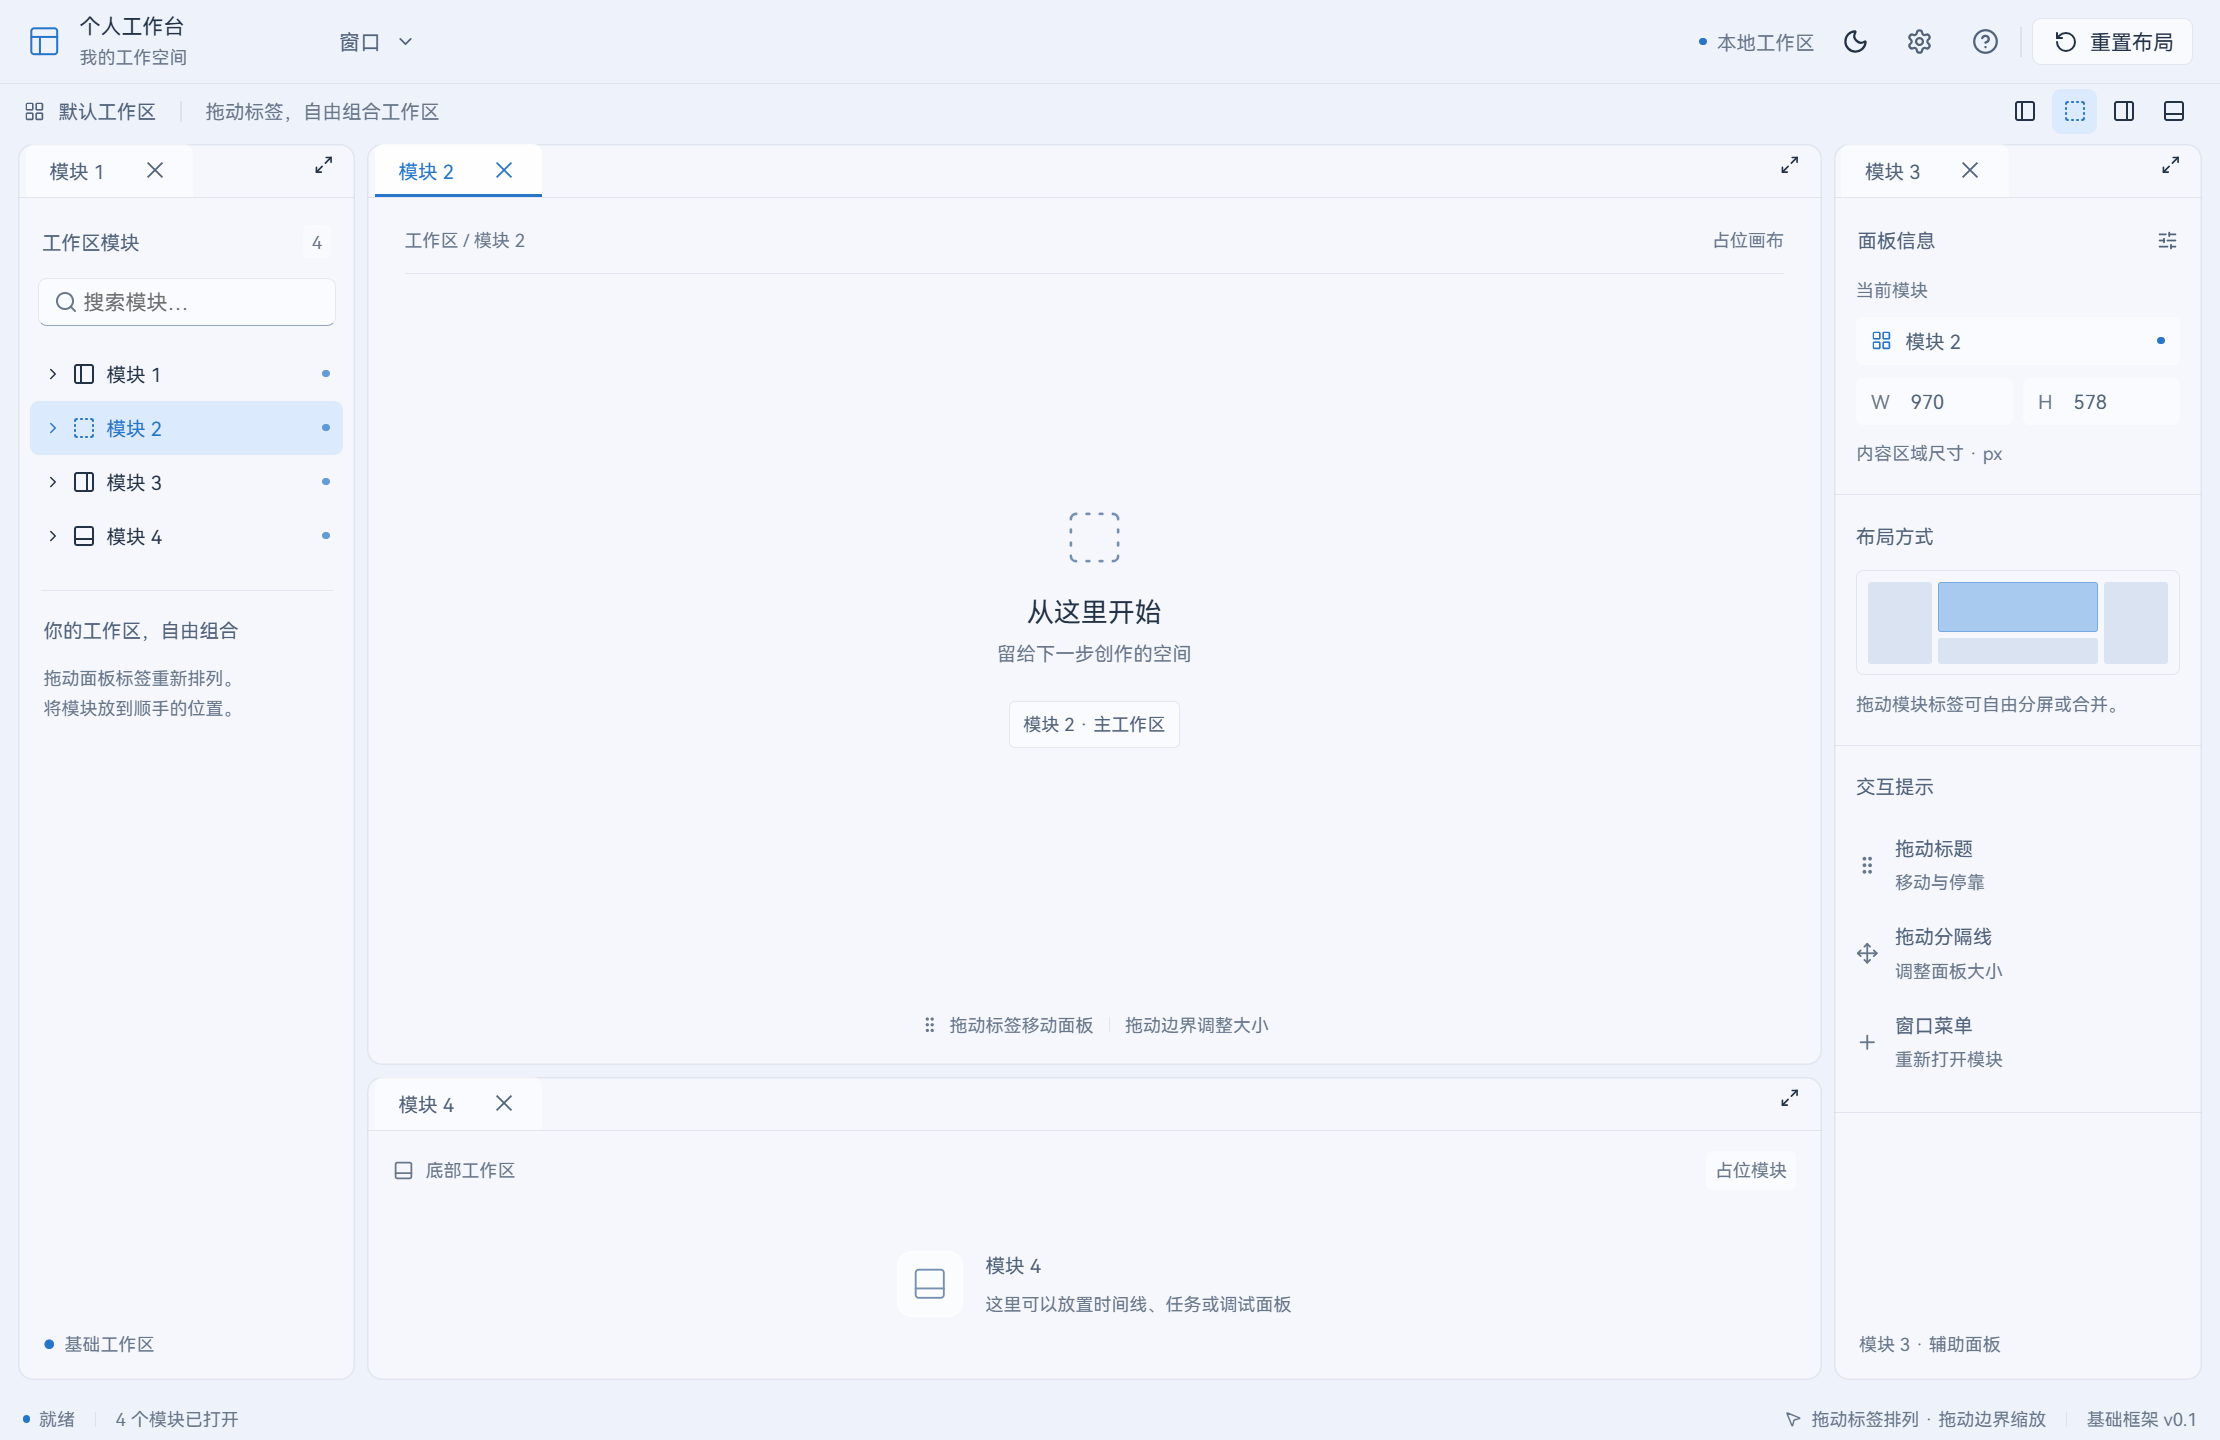
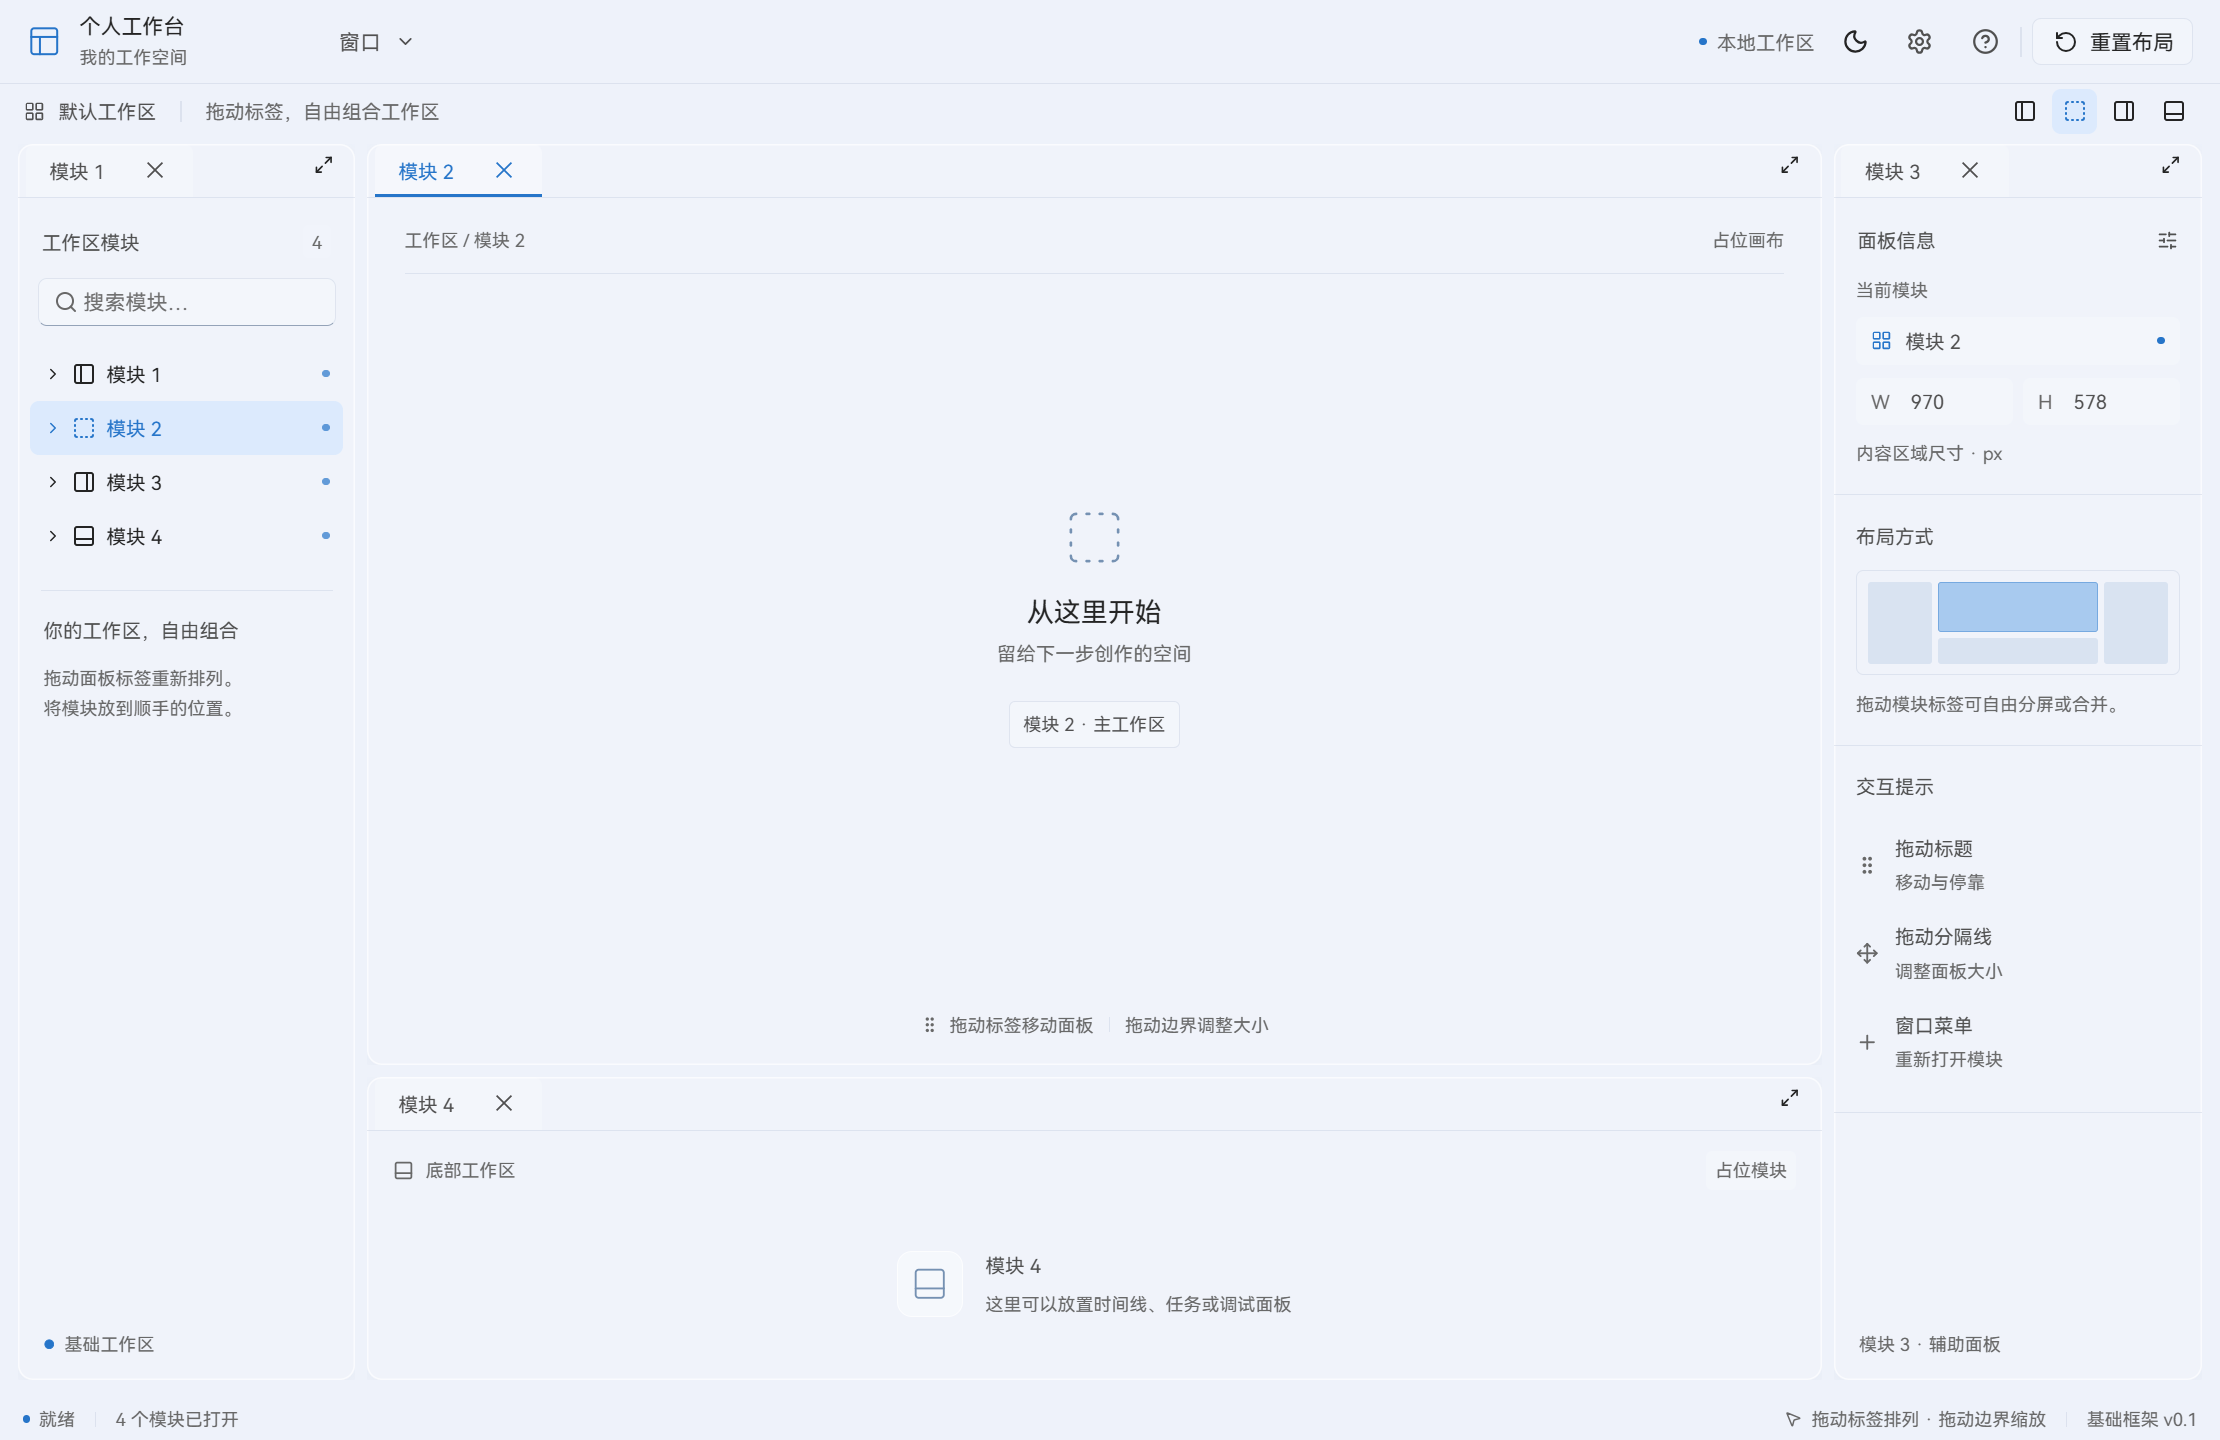
fix: 统一 Fluent 玻璃材质与设置卡片

diff --git a/src/renderer/src/app/AppearanceSettings.tsx b/src/renderer/src/app/AppearanceSettings.tsx
@@ -46,17 +46,21 @@ export function AppearanceSettings({ value, theme, onChange, onTheme, saved }: P
           </DialogTitle>
           <DialogContent>
             <div className="settings-intro">
-              <span>外观</span>
-              <p>让工作台适合你的习惯。修改即时生效。</p>
+              <span>个性化</span>
+              <p>外观随你而定。修改即时生效，关闭窗口后仍会保留。</p>
             </div>
             <div className="settings-grid">
-              <Field label="颜色主题">
+              <Field label="颜色主题" hint="为整个工作台选择深色或浅色。" orientation="horizontal">
                 <Select value={theme} onChange={(_, data) => onTheme(data.value as Theme)}>
                   <option value="dark">深色</option>
                   <option value="light">浅色</option>
                 </Select>
               </Field>
-              <Field label="界面材质">
+              <Field
+                label="界面材质"
+                hint="调整玻璃透光程度，或使用实色底。"
+                orientation="horizontal"
+              >
                 <Select
                   value={value.material}
                   onChange={(_, data) =>
@@ -68,7 +72,11 @@ export function AppearanceSettings({ value, theme, onChange, onTheme, saved }: P
                   <option value="solid">纯色 · 更高可读性</option>
                 </Select>
               </Field>
-              <Field label="界面密度">
+              <Field
+                label="界面密度"
+                hint="调整工具栏、标签和列表的间距。"
+                orientation="horizontal"
+              >
                 <Select
                   value={value.density}
                   onChange={(_, data) =>
@@ -79,7 +87,7 @@ export function AppearanceSettings({ value, theme, onChange, onTheme, saved }: P
                   <option value="compact">紧凑</option>
                 </Select>
               </Field>
-              <Field label="强调色">
+              <Field label="强调色" hint="用于选中状态、焦点和主要操作。" orientation="horizontal">
                 <Select
                   value={value.accent}
                   onChange={(_, data) =>
@@ -91,7 +99,7 @@ export function AppearanceSettings({ value, theme, onChange, onTheme, saved }: P
                   <option value="violet">柔紫</option>
                 </Select>
               </Field>
-              <Field label="面板边角">
+              <Field label="面板边角" hint="统一停靠面板与标签的轮廓。" orientation="horizontal">
                 <Select
                   value={value.corners}
                   onChange={(_, data) =>
@@ -105,7 +113,7 @@ export function AppearanceSettings({ value, theme, onChange, onTheme, saved }: P
               <div className="settings-font">
                 <span>中文字体</span>
                 <p>HarmonyOS Sans SC</p>
-                <small>未安装时回退到微软雅黑，不更改系统字体。</small>
+                <small>本机字体 · 未安装时回退微软雅黑 UI</small>
               </div>
             </div>
             <p className="settings-note">

diff --git a/src/renderer/src/styles/appearance.css b/src/renderer/src/styles/appearance.css
@@ -91,7 +91,7 @@
   border-top: 0;
 }
 .appearance-dialog.fui-DialogSurface {
-  width: min(620px, calc(100vw - 32px));
+  width: min(720px, calc(100vw - 32px));
 }
 .settings-intro {
   margin-top: var(--space-12);
@@ -107,27 +107,52 @@
   font-size: var(--font-size-control);
   line-height: var(--line-height-hint);
 }
+/* WinUI Gallery SettingsCard layout, implemented with Fluent React Field. */
 .settings-grid {
-  align-items: start;
   display: grid;
-  grid-template-columns: 1fr 1fr;
-  gap: var(--space-20) var(--space-24);
-  padding: var(--space-20) 0;
-  border-top: 1px solid var(--stroke);
-  border-bottom: 1px solid var(--stroke);
+  gap: var(--space-4);
+  padding: var(--space-12) 0;
+}
+.settings-grid > .fui-Field,
+.settings-font {
+  padding: var(--space-16);
+  border: 1px solid var(--stroke);
+  border-radius: var(--radius-6);
+  background: var(--glass);
+  box-shadow: inset 0 1px var(--edge-highlight);
+}
+.settings-grid > .fui-Field {
+  grid-template-columns: minmax(0, 1fr) 176px;
+  column-gap: var(--space-16);
+}
+.settings-grid .fui-Field__label {
+  grid-column: 1;
+  grid-row: 1;
+}
+.settings-grid .fui-Field__hint {
+  grid-column: 1;
+  grid-row: 2;
+  color: var(--text-muted);
 }
 .settings-grid .fui-Select {
+  grid-column: 2;
+  grid-row: 1 / span 2;
+  align-self: center;
   min-width: 0;
   width: 100%;
 }
 .settings-font {
+  display: grid;
+  grid-template-columns: 1fr auto;
+  gap: var(--space-4);
   font-size: var(--font-size-body);
 }
 .settings-font p {
-  margin: var(--space-8) 0;
+  margin: 0;
   font-size: var(--font-size-control);
 }
 .settings-font small {
+  grid-column: 1 / -1;
   color: var(--text-muted);
   font-size: var(--font-size-caption);
 }
@@ -149,4 +174,28 @@
 :root[data-material="solid"] .workbench-menu.fui-MenuPopover {
   background: var(--solid-surface);
   backdrop-filter: none;
+}
+
+/* Keep one scrolling content region; title and actions remain reachable. */
+.appearance-dialog.fui-DialogSurface {
+  overflow: hidden;
+}
+.appearance-dialog .fui-DialogBody {
+  display: grid;
+  grid-template-rows: auto minmax(0, 1fr) auto;
+  max-height: calc(100vh - 80px);
+  min-height: 0;
+  gap: var(--space-16);
+}
+.appearance-dialog .fui-DialogContent {
+  min-height: 0;
+  overflow-y: auto;
+}
+.appearance-dialog .fui-DialogTitle,
+.appearance-dialog .fui-DialogActions {
+  flex-shrink: 0;
+}
+* {
+  scrollbar-width: thin;
+  scrollbar-color: var(--stroke-strong) transparent;
 }

diff --git a/src/renderer/src/styles/tokens.css b/src/renderer/src/styles/tokens.css
@@ -23,7 +23,7 @@
   --base: #202227;
   --backdrop: #171a20ad;
   --solid-surface: #282c34;
-  --menu-surface: #252a33ed;
+  --menu-surface: #252525b8;
   --glass: #ffffff08;
   --control: #ffffff0c;
   --hover: #ffffff12;
@@ -34,9 +34,9 @@
 }
 :root[data-theme="light"] {
   color-scheme: light;
-  --text: #243247;
-  --text-secondary: #51627b;
-  --text-muted: #69778b;
+  --text: #242424;
+  --text-secondary: #505050;
+  --text-muted: #686868;
   --accent: #2675c9;
   --accent-hover: #1e65b5;
   --accent-soft: #dceafd;
@@ -56,12 +56,12 @@
   --base: #eef2fa;
   --backdrop: #edf3fa9c;
   --solid-surface: #f8fafe;
-  --menu-surface: #f7faffd9;
-  --glass: #ffffff66;
-  --control: #ffffff80;
-  --hover: #ffffff99;
+  --menu-surface: #fafafab8;
+  --glass: #ffffff18;
+  --control: #ffffff38;
+  --hover: #ffffff60;
   --edge-highlight: #ffffffb3;
-  --tab-active: #ffffffd9;
+  --tab-active: #ffffff55;
   --highlight: #ffffff;
   --on-accent: #ffffff;
 }
@@ -124,7 +124,7 @@
 :root {
   --shell-surface: transparent;
   --panel-surface: var(--glass);
-  --panel-shadow: inset 0 0 0 1px var(--stroke);
+  --panel-shadow: var(--shadow-panel);
   --panel-filter: none;
   --shell-header-height: 56px;
   --shell-toolbar-height: 36px;

diff --git a/src/renderer/src/app/fluentTheme.ts b/src/renderer/src/app/fluentTheme.ts
@@ -26,7 +26,15 @@ export function fluentTheme(mode: ColorTheme): Theme {
     colorNeutralForeground2Hover: 'var(--text)',
     colorNeutralForeground2Pressed: 'var(--text)',
     colorNeutralForeground2BrandHover: 'var(--accent)',
-    colorNeutralBackground1: 'var(--solid-surface)',
+    colorNeutralBackground1: 'var(--control)',
+    colorNeutralBackground2: 'var(--glass)',
+    colorNeutralBackground3: 'var(--control)',
+    colorNeutralBackground4: 'var(--glass)',
+    colorNeutralBackground5: 'var(--glass)',
+    colorNeutralBackground6: 'var(--glass)',
+    colorNeutralBackgroundAlpha: 'var(--control)',
+    colorNeutralBackgroundAlpha2: 'var(--glass)',
+    colorNeutralStencil1: 'var(--control)',
     colorNeutralBackground1Hover: 'var(--hover)',
     colorNeutralBackground1Pressed: 'var(--control)',
     colorNeutralBackground1Selected: 'var(--accent-soft)',

diff --git a/docs/任务记录.md b/docs/任务记录.md
@@ -125,10 +125,13 @@
 - 目标：修正工作台、控件、菜单与设置材质不一致，按 WinUI Gallery 设置卡片组织现有功能。
 - 范围：语义材质 tokens、Fluent 适配及现有设置；不新增业务、不修改存储格式或用户 profile。
 - 验收：项目检查、后台深浅色/小窗口截图、透明链路、已有设置与布局重启测试；交付重建桌面入口使用的 out。
-- 状态：进行中。
+- 状态：实现完成，外观等待用户查看；统一 Fluent 控件与面板/菜单/弹窗材质，设置改为 WinUI Gallery 式卡片，小窗口固定标题与底部操作。
+- 验证：最终 npm run check 通过（2 项 doctor、生产/开发各 15 项交互）；独立 profile 覆盖主题/外观及布局重启保持。中途有开发测试超时，最终串行重跑通过，未放宽测试阈值。后台透明链路与深浅色/大小窗口截图检查通过；原型共享样式回归通过（证据 tmp/component-prototype-myqYSl）。
+- 交付：out 已更新，桌面入口 --check 成功；未读取或清理 local/desktop-profile，未改变存储键。截图为真实 Electron 的不透明底色回退，不能证明 Windows 原生 Acrylic 合成；未 push，远程 CI 未运行。
+- 提交主题：fix: 统一 Fluent 玻璃材质与设置卡片。
 
 ## L02 桌面预览持续交付约定
 
 - 目标/范围：将更新 out 构建、检查桌面入口、保留固定 profile 写入协作与开发流程；不清理用户数据、不改存储来源。
 - 验收/状态：完成。桌面脚本 --check 成功；核对固定 local/desktop-profile；文档 diff --check 通过。实际构建与重启持久化由 U02 的项目检查覆盖。
-- 关联提交主题：docs: 固定桌面预览更新与配置保留流程。
+- 关联提交：b0c3d64。

diff --git a/docs/设计规范.md b/docs/设计规范.md
@@ -61,3 +61,5 @@ Windows 11 build 22621+ 使用原生 Acrylic；旧系统和浏览器背景使用
 外观存于当前 profile/origin 的 localStorage `workbench.appearance`（version 1）；主题沿用 `workbench.theme`。无效 JSON、未知版本安全回退；单字段无效则恢复该项默认。恢复默认外观不会修改布局或个人数据。无法保存时界面显示说明。无数据库、云同步和第三方组件配置。
 
 `node scripts/preview-appearance.mjs` 在独立 profile 后台生成深浅色、1480×960/960×720 的工作台/设置截图，截图明确使用不透明底色回退以检查排版，不伪装成桌面 Acrylic 合成。`scripts/visual-check.mjs` 继续进行 125%/150% Chromium 缩放模拟；它不更改或代表真实 Windows 系统缩放。
+
+材质统一：默认玻璃使用透明外壳、轻量半透明面板与控件，以及较浓的磨砂菜单/对话框；避免 Fluent 默认实色底遮挡原生 Acrylic。浅色减少白色叠层，正文用中性黑灰。系统标题栏与内容区依赖同一原生背景，但弹窗因阅读和遮挡关系保留较高浓度，不承诺所有表面完全相同的透明度。纯色、减少透明及高对比回退继续保留。设置页参考 WinUI Gallery 的设置卡片；小窗口只滚动设置内容，标题和操作固定。

diff --git a/docs/第三方来源.md b/docs/第三方来源.md
@@ -40,3 +40,7 @@ Dockview 社区基础包及 dockview-core 8.9.0 均为 MIT，未使用 Enterpris
 - 不随包分发本机 HarmonyOS/微软字体；安装机器使用其已有字体回退。
 
 示例组件同样复用已列出的 React、Fluent UI React 与 lucide-react，独立 bundle 随示例分发；不是新增框架或第三方许可证。正式组件分发时仍需一并提供对应许可证与依赖 notices。
+
+## 设置页参考
+
+- [微软 WinUI Gallery SettingsPage](https://github.com/microsoft/WinUI-Gallery/blob/main/WinUIGallery/Pages/SettingsPage.xaml)：参考 SettingsCard 的左侧标题/说明、右侧操作及分组排版；源码 MIT（Microsoft），未复制 XAML 源码或引入 WinUI 运行时。本项目使用已有 Fluent UI React Field/Select/Dialog 实现，键盘与焦点交互由官方控件提供。
